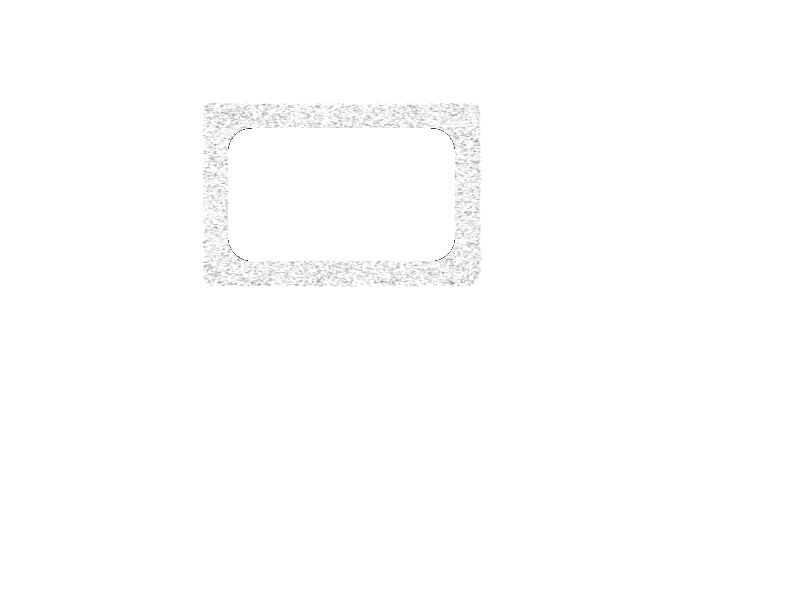
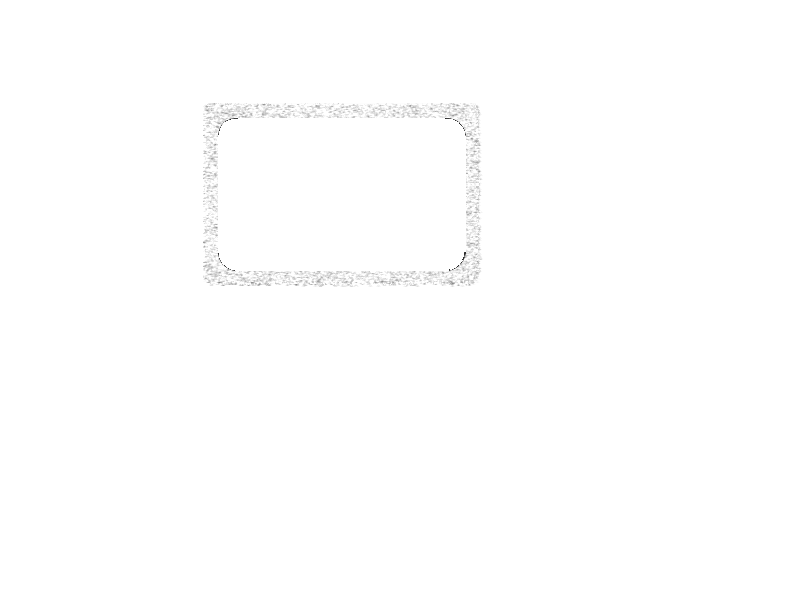
border button

Changed region(s): [[0.2812, 0.21, 0.5938, 0.45], [0.2812, 0.18, 0.5625, 0.24], [0.25, 0.3, 0.2812, 0.33]]

diff --git a/EggConveyor/GameScene.swift b/EggConveyor/GameScene.swift
@@ -359,7 +359,7 @@ class ChalkBorder: MySpriteNode {
 
     init(parent: SKNode) {
         super.init(parent: parent, image: "border")
-        setScale(0.4)
+        setScale(0.6)
     }
 }
 
@@ -389,24 +389,39 @@ class ScoreBoard: MySpriteNode {
         bestScoreLabel.text = "PERSONAL BEST \(bestScore)"
         bestScoreLabel.position = CGPoint(x: 0, y: 0)
         bestScoreLabel.show()
-        let twitter = MyLabelNode(parent: self)
-        twitter.fontSize = 110
+        let borderT = ChalkBorder(parent: self)
+        borderT.position = CGPoint(x: -340, y: -340)
+        borderT.xScale = 0.4
+        borderT.name = "twitter"
+        borderT.show()
+        let twitter = MyLabelNode(parent: borderT)
+        twitter.fontSize = 160
         twitter.text = "t"
-        twitter.position = CGPoint(x: -320, y: -320)
+        twitter.xScale = 2.0
+        twitter.position = CGPoint(x: -60, y: 40)
         twitter.show()
-        let facebook = MyLabelNode(parent: self)
-        facebook.fontSize = 80
+        let borderF = ChalkBorder(parent: self)
+        borderF.position = CGPoint(x: -170, y: -340)
+        borderF.xScale = 0.4
+        borderF.name = "facebook"
+        borderF.show()
+        let facebook = MyLabelNode(parent: borderF)
+        facebook.fontSize = 116
         facebook.text = "f"
-        facebook.position = CGPoint(x: -120, y: -310)
+        facebook.xScale = 2.0
+        facebook.position = CGPoint(x: -60, y: 60)
         facebook.show()
-        let retryLabel = MyLabelNode(parent: self)
-        retryLabel.fontSize = 74
-        retryLabel.text = "\u{21BB}RETRY"
-        retryLabel.position = CGPoint(x: 260, y: -310)
+        let borderR = ChalkBorder(parent: self)
+        borderR.position = CGPoint(x: 310, y: -340)
+        borderR.xScale = 1.6
+        borderR.name = "retry"
+        borderR.show()
+        let retryLabel = MyLabelNode(parent: borderR)
+        retryLabel.fontSize = 110
+        retryLabel.text = "\u{21BB} RETRY"
+        retryLabel.xScale = 0.4
+        retryLabel.position = CGPoint(x: -60, y: 70)
         retryLabel.show()
-        let border = ChalkBorder(parent: self)
-        border.position = CGPoint(x: 0, y: 0)
-        border.show()
         show()
         runAction(SKAction.moveToX(parent.frame.midX, duration: 1.5))
     }
